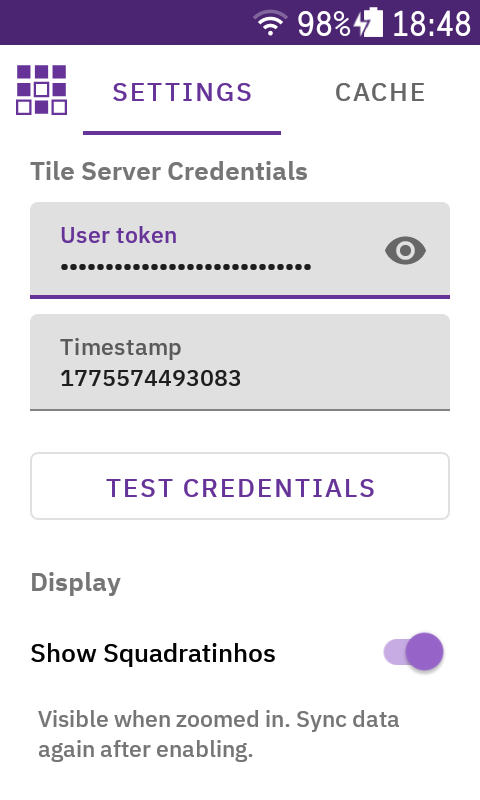
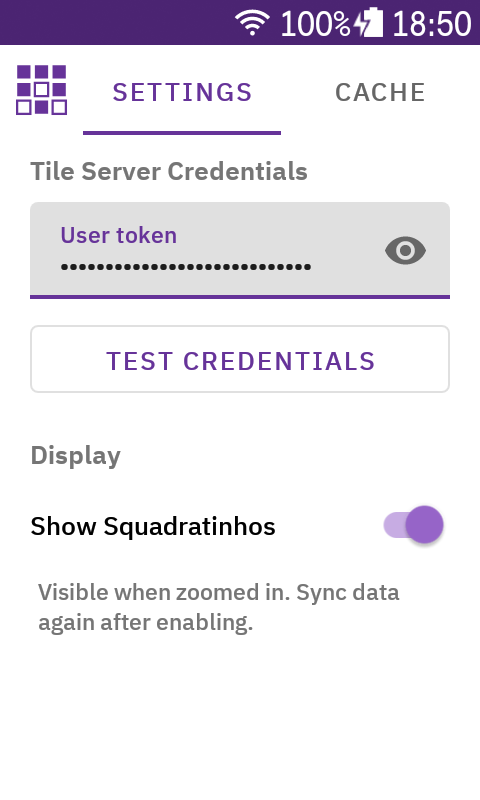
feature: eliminate need for user-provided credential timestamp (#34)

diff --git a/app/src/main/kotlin/sr/leo/karoo_squadrats/MainActivity.kt b/app/src/main/kotlin/sr/leo/karoo_squadrats/MainActivity.kt
@@ -36,7 +36,6 @@ class MainActivity : AppCompatActivity() {
     private var syncJob: Job? = null
 
     private lateinit var editToken: EditText
-    private lateinit var editTimestamp: EditText
     private lateinit var editCenterLat: EditText
     private lateinit var editCenterLon: EditText
     private lateinit var editSyncRadius: EditText
@@ -76,7 +75,6 @@ class MainActivity : AppCompatActivity() {
 
         // Settings tab: credentials + display
         editToken = findViewById(R.id.editToken)
-        editTimestamp = findViewById(R.id.editTimestamp)
         val switchSquadratinhos = findViewById<SwitchMaterial>(R.id.switchSquadratinhos)
 
         // Cache tab
@@ -95,15 +93,11 @@ class MainActivity : AppCompatActivity() {
         // Load saved settings
         CoroutineScope(Dispatchers.Main).launch {
             editToken.setText(settings.getUserToken())
-            editTimestamp.setText(settings.getTileTimestamp())
             switchSquadratinhos.isChecked = settings.getSquadratinhosEnabled()
 
             // Auto-save credentials on edit (attached after loading to avoid triggering on setText)
             editToken.doAfterTextChanged { text ->
                 CoroutineScope(Dispatchers.IO).launch { settings.setUserToken(text.toString().trim()) }
-            }
-            editTimestamp.doAfterTextChanged { text ->
-                CoroutineScope(Dispatchers.IO).launch { settings.setTileTimestamp(text.toString().trim()) }
             }
         }
 
@@ -197,13 +191,8 @@ class MainActivity : AppCompatActivity() {
 
     private fun startSync() {
         val token = editToken.text.toString().trim()
-        val timestamp = editTimestamp.text.toString().trim()
         if (token.isEmpty()) {
             Toast.makeText(this, "Enter your user token", Toast.LENGTH_SHORT).show()
-            return
-        }
-        if (timestamp.isEmpty()) {
-            Toast.makeText(this, "Enter the timestamp", Toast.LENGTH_SHORT).show()
             return
         }
 
@@ -238,10 +227,21 @@ class MainActivity : AppCompatActivity() {
             settings.setCenterLon(lon)
             settings.setSyncRadiusKm(radiusKm)
 
+            val tsResult = tileRepo.fetchTimestamp(karooSystem, settings.getTimestampUrl())
+            if (tsResult is TileRepository.TimestampResult.Error) {
+                runOnUiThread {
+                    progressSync.visibility = View.GONE
+                    txtSyncStatus.text = syncErrorMessage(tsResult.syncError)
+                    btnSync.isEnabled = true
+                }
+                return@launch
+            }
+            val urlTemplate = settings.getTileUrlTemplate((tsResult as TileRepository.TimestampResult.Success).timestamp)
+
             val syncSquadratinhos = settings.getSquadratinhosEnabled()
             tileRepo.sync(
                 karooSystem,
-                settings.getTileUrlTemplate(),
+                urlTemplate,
                 lat,
                 lon,
                 radiusKm.toDouble(),
@@ -273,15 +273,7 @@ class MainActivity : AppCompatActivity() {
                     }
 
                     override fun onError(error: TileRepository.SyncError) {
-                        val msg = when (error) {
-                            is TileRepository.SyncError.MissingCredentials -> getString(R.string.sync_error_missing_credentials)
-                            is TileRepository.SyncError.NoTilesInArea -> getString(R.string.sync_error_no_tiles)
-                            is TileRepository.SyncError.NetworkError -> getString(R.string.sync_error_network, error.detail ?: "")
-                            is TileRepository.SyncError.AuthError -> getString(R.string.sync_error_auth, error.statusCode)
-                            is TileRepository.SyncError.ServerError -> getString(R.string.sync_error_server, error.statusCode)
-                            is TileRepository.SyncError.HttpError -> getString(R.string.sync_error_http, error.statusCode)
-                            is TileRepository.SyncError.UnexpectedError -> getString(R.string.sync_error_unexpected, error.detail)
-                        }
+                        val msg = syncErrorMessage(error)
                         runOnUiThread {
                             progressSync.visibility = View.GONE
                             txtSyncStatus.text = msg
@@ -329,24 +321,36 @@ class MainActivity : AppCompatActivity() {
         btn.isEnabled = false
         btn.text = getString(R.string.test_credentials_testing)
         CoroutineScope(Dispatchers.IO).launch {
-            val urlTemplate = settings.getTileUrlTemplate()
+            val tsResult = tileRepo.fetchTimestamp(karooSystem, settings.getTimestampUrl())
+            if (tsResult is TileRepository.TimestampResult.Error) {
+                runOnUiThread {
+                    btn.isEnabled = true
+                    btn.text = getString(R.string.btn_test_credentials)
+                    val msg = syncErrorMessage(tsResult.syncError)
+                    Toast.makeText(this@MainActivity, msg, Toast.LENGTH_LONG).show()
+                }
+                return@launch
+            }
+            val urlTemplate = settings.getTileUrlTemplate((tsResult as TileRepository.TimestampResult.Success).timestamp)
             val error = tileRepo.testCredentials(karooSystem, urlTemplate)
             runOnUiThread {
                 btn.isEnabled = true
                 btn.text = getString(R.string.btn_test_credentials)
                 val msg = if (error == null) {
                     getString(R.string.test_credentials_success)
-                } else when (error) {
-                    is TileRepository.SyncError.MissingCredentials -> getString(R.string.sync_error_missing_credentials)
-                    is TileRepository.SyncError.AuthError -> getString(R.string.sync_error_auth, error.statusCode)
-                    is TileRepository.SyncError.ServerError -> getString(R.string.sync_error_server, error.statusCode)
-                    is TileRepository.SyncError.NetworkError -> getString(R.string.sync_error_network, error.detail ?: "")
-                    is TileRepository.SyncError.HttpError -> getString(R.string.sync_error_http, error.statusCode)
-                    is TileRepository.SyncError.UnexpectedError -> getString(R.string.sync_error_unexpected, error.detail)
-                    is TileRepository.SyncError.NoTilesInArea -> getString(R.string.sync_error_no_tiles)
+                } else {
+                    syncErrorMessage(error)
                 }
                 Toast.makeText(this@MainActivity, msg, Toast.LENGTH_LONG).show()
             }
         }
+    }
+
+    private fun syncErrorMessage(error: TileRepository.SyncError): String = when (error) {
+        is TileRepository.SyncError.MissingCredentials -> getString(R.string.sync_error_missing_credentials)
+        is TileRepository.SyncError.NoTilesInArea -> getString(R.string.sync_error_no_tiles)
+        is TileRepository.SyncError.NetworkError -> getString(R.string.sync_error_network, error.detail ?: "")
+        is TileRepository.SyncError.HttpError -> getString(R.string.sync_error_http, error.statusCode)
+        is TileRepository.SyncError.UnexpectedError -> getString(R.string.sync_error_unexpected, error.detail)
     }
 }

diff --git a/app/src/main/kotlin/sr/leo/karoo_squadrats/data/TileRepository.kt b/app/src/main/kotlin/sr/leo/karoo_squadrats/data/TileRepository.kt
@@ -6,6 +6,7 @@ import io.hammerhead.karooext.models.HttpResponseState
 import io.hammerhead.karooext.models.OnHttpResponse
 import kotlinx.coroutines.flow.first
 import kotlinx.coroutines.flow.mapNotNull
+import org.json.JSONObject
 import sr.leo.karoo_squadrats.data.db.CollectedSquadrat
 import sr.leo.karoo_squadrats.data.db.CollectedSquadratDao
 import sr.leo.karoo_squadrats.data.db.CollectedSquadratinho
@@ -46,6 +47,37 @@ class TileRepository(
 
     suspend fun squadratCount(): Int = squadratDao.count()
 
+    sealed class TimestampResult {
+        data class Success(val timestamp: String) : TimestampResult()
+        data class Error(val syncError: SyncError) : TimestampResult()
+    }
+
+    /**
+     * Fetch the current tile timestamp from the Squadrats API.
+     */
+    suspend fun fetchTimestamp(
+        karooSystem: KarooSystemService,
+        url: String,
+    ): TimestampResult {
+        if (url.isEmpty()) return TimestampResult.Error(SyncError.MissingCredentials)
+        return when (val result = fetchTile(karooSystem, url)) {
+            is FetchResult.Error -> TimestampResult.Error(result.syncError)
+            is FetchResult.Success -> {
+                val body = result.body
+                if (body == null || body.isEmpty()) {
+                    return TimestampResult.Error(SyncError.UnexpectedError("Empty response"))
+                }
+                try {
+                    val json = JSONObject(String(body))
+                    val timestamp = json.getLong("timestamp").toString()
+                    TimestampResult.Success(timestamp)
+                } catch (e: Exception) {
+                    TimestampResult.Error(SyncError.UnexpectedError("Failed to parse timestamp: ${e.message}"))
+                }
+            }
+        }
+    }
+
     private sealed class FetchResult {
         data class Success(val body: ByteArray?) : FetchResult()
         data class Error(val syncError: SyncError) : FetchResult()
@@ -74,12 +106,7 @@ class TileRepository(
                 FetchResult.Success(body)
             } else {
                 Log.w(TAG, "Fetch $url: HTTP ${response.statusCode}")
-                val error = when (response.statusCode) {
-                    in 400..499 -> SyncError.AuthError(response.statusCode)
-                    in 500..599 -> SyncError.ServerError(response.statusCode)
-                    else -> SyncError.HttpError(response.statusCode)
-                }
-                FetchResult.Error(error)
+                FetchResult.Error(SyncError.HttpError(response.statusCode))
             }
         } catch (e: Exception) {
             Log.w(TAG, "Fetch $url: ${e.javaClass.simpleName}: ${e.message}")
@@ -111,8 +138,6 @@ class TileRepository(
         data object MissingCredentials : SyncError()
         data object NoTilesInArea : SyncError()
         data class NetworkError(val detail: String?) : SyncError()
-        data class AuthError(val statusCode: Int) : SyncError()
-        data class ServerError(val statusCode: Int) : SyncError()
         data class HttpError(val statusCode: Int) : SyncError()
         data class UnexpectedError(val detail: String) : SyncError()
     }

diff --git a/app/src/main/kotlin/sr/leo/karoo_squadrats/data/Settings.kt b/app/src/main/kotlin/sr/leo/karoo_squadrats/data/Settings.kt
@@ -23,13 +23,6 @@ class Settings(context: Context) {
         dataStore.edit { it[USER_TOKEN] = value }
     }
 
-    suspend fun getTileTimestamp(): String =
-        dataStore.data.first()[TILE_TIMESTAMP] ?: ""
-
-    suspend fun setTileTimestamp(value: String) {
-        dataStore.edit { it[TILE_TIMESTAMP] = value }
-    }
-
     suspend fun getCenterLat(): Double =
         dataStore.data.first()[CENTER_LAT] ?: 0.0
 
@@ -58,17 +51,20 @@ class Settings(context: Context) {
         dataStore.edit { it[SQUADRATINHOS_ENABLED] = value }
     }
 
-    suspend fun getTileUrlTemplate(): String {
-        val data = dataStore.data.first()
-        val token = data[USER_TOKEN] ?: ""
-        val ts = data[TILE_TIMESTAMP] ?: ""
-        if (token.isEmpty() || ts.isEmpty()) return ""
-        return "https://tiles-beta.squadrats.com/$token/trophies-earth/$ts/{z}/{x}/{y}.pbf"
+    suspend fun getTileUrlTemplate(timestamp: String): String {
+        val token = dataStore.data.first()[USER_TOKEN] ?: ""
+        if (token.isEmpty() || timestamp.isEmpty()) return ""
+        return "https://tiles-beta.squadrats.com/$token/trophies-earth/$timestamp/{z}/{x}/{y}.pbf"
+    }
+
+    suspend fun getTimestampUrl(): String {
+        val token = dataStore.data.first()[USER_TOKEN] ?: ""
+        if (token.isEmpty()) return ""
+        return "https://mainframe-api.squadrats.com/anonymous/squadrants/$token/geojson"
     }
 
     companion object {
         private val USER_TOKEN = stringPreferencesKey("user_token")
-        private val TILE_TIMESTAMP = stringPreferencesKey("tile_timestamp")
         private val CENTER_LAT = doublePreferencesKey("center_lat")
         private val CENTER_LON = doublePreferencesKey("center_lon")
         private val SYNC_RADIUS = intPreferencesKey("sync_radius_km")

diff --git a/README.md b/README.md
@@ -22,30 +22,28 @@ Releases are available via [GitHub Releases](https://github.com/leoschweizer/kar
 - Karoo (latest generation): Share the release link above to the Karoo Companion App - see [Companion App - Sideloading](https://support.hammerhead.io/hc/en-us/articles/31576497036827-Companion-App-Sideloading)
 - Karoo 2: Download the APK and sideload via `adb install karoo-squadrats-release.apk` - see [DC Rainmakers tutorial](https://www.dcrainmaker.com/2021/02/how-to-sideload-android-apps-on-your-hammerhead-karoo-1-karoo-2.html) for instructions
 
-### 2. Get your Squadrats token and timestamp
+### 2. Get your Squadrats token
 
-Squadrats doesn't have a public API, but serves your data as vector map tiles. You need to extract two short values from your personal tile URL:
+Squadrats doesn't have a public API, but serves your data as vector map tiles. You need to extract your personal token from a tile URL:
 
 1. Open [squadrats.com](https://squadrats.com/) in a desktop browser and navigate to your map view so your tiles are visible
 2. Open **Developer Tools** (press `F12` or `Cmd+Option+I` on Mac)
 3. Go to the **Network** tab
 4. In the filter box, type `.pbf`
 5. Reload the page - you should see tile requests appearing
-6. Click on any of the `.pbf` requests and look at its URL. Note down the token and timestamp:
+6. Click on any of the `.pbf` requests and look at its URL. Note down the token:
    ```
    https://tiles-beta.squadrats.com/abcDEF123xyz/trophies-earth/1754233411401/12/2081/1367.pbf
-                                    ^^^^^^^^^^^^                ^^^^^^^^^^^^^
-                                       TOKEN                      TIMESTAMP
+                                    ^^^^^^^^^^^^^
+                                       TOKEN
    ```
 
 > **Note:** Your token is personal. Keep it private.
 
-> **Note:** The timestamp may change over time. If sync stops working, repeat the steps above to get a fresh timestamp and update it in the app. The token typically stays the same.
-
 ### 3. Configure the extension on your Karoo
 
 1. Open the **Squadrats Overlay** app on your Karoo
-2. Enter your **token** and **timestamp** on the Settings screen.
+2. Enter your **token** on the Settings screen.
 3. Go to the Cache screen and set your **sync center** - either tap "Use Current Location" for GPS, or manually enter the latitude/longitude of the area you ride in
 4. Set the **sync radius** - this determines how large an area of tile data to download
 5. Tap **sync data** - the Karoo will download tile data using the Karoo's built-in HTTP mechanism (WiFi when available, or via Bluetooth through the companion app if supported).
